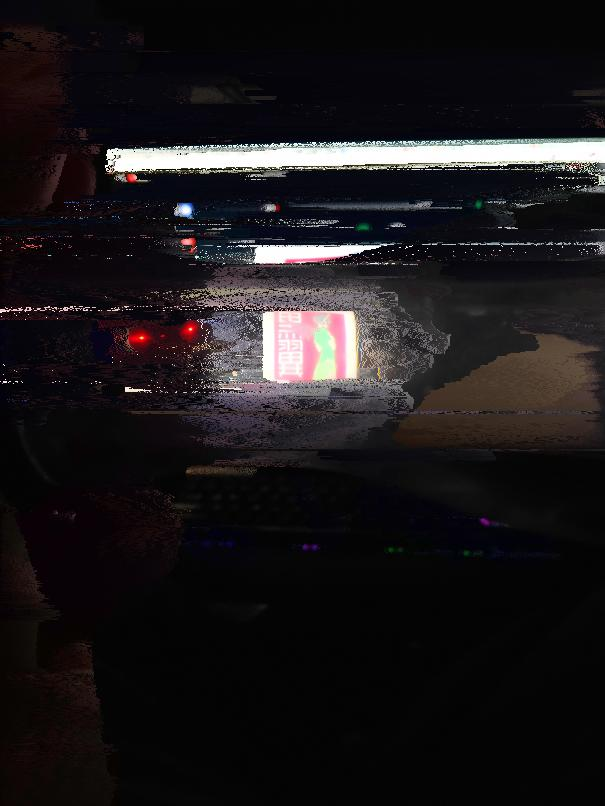
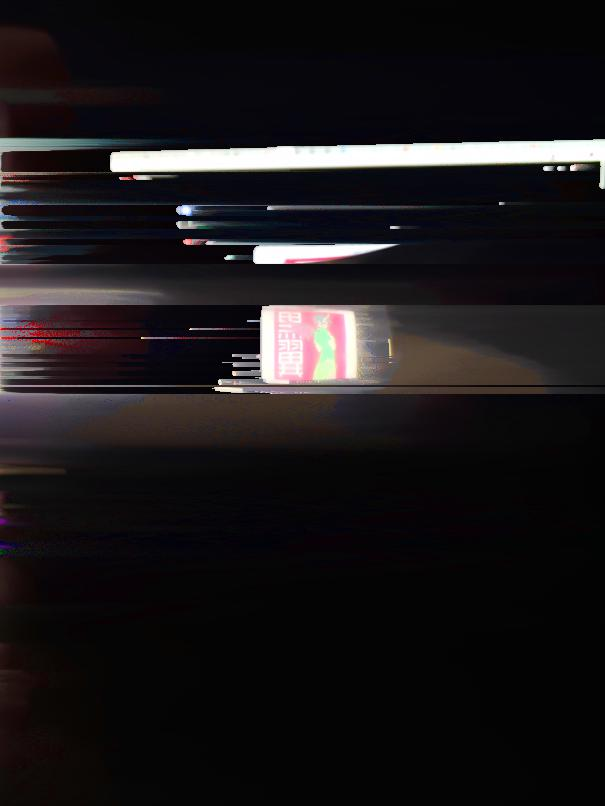
Fixed LightnessPixelFunction sorting by saturation

diff --git a/examples/0007/ex0007.py b/examples/0007/ex0007.py
@@ -18,7 +18,7 @@ intervalGenerator = pyglitch.PixelFunctionIntervalGenerator( # Intervals based o
 
  # Pixels are sorted within intervals by the sorting function, PixelFunctions can be easily added/multiplied
  # PixelFunctions are not recreated when operated on
-sortingFunction = pyglitch.LightnessPixelFunction()
+sortingFunction = pyglitch.SaturationPixelFunction()
 
 sortFilter = pyglitch.PixelSortFilter(intervalGenerator, sortingFunction, axis=1, reverse=True)
 

diff --git a/pyglitch/rowops.py b/pyglitch/rowops.py
@@ -193,7 +193,7 @@ class ValuePixelFunction(PixelFunction):
 
 class LightnessPixelFunction(PixelFunction):
     def getValue(self, r, g, b):
-        return _rgb_to_hls(r/256, g/256, b/256)[2]
+        return _rgb_to_hls(r/256, g/256, b/256)[1]
 
 
 class FullIntervalGenerator(IntervalGenerator):
